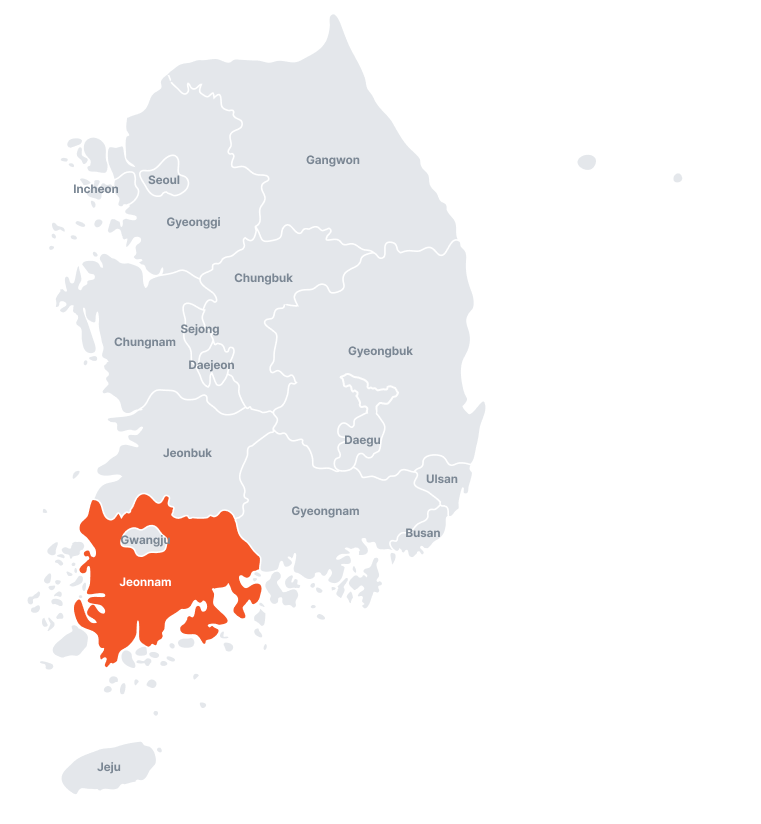
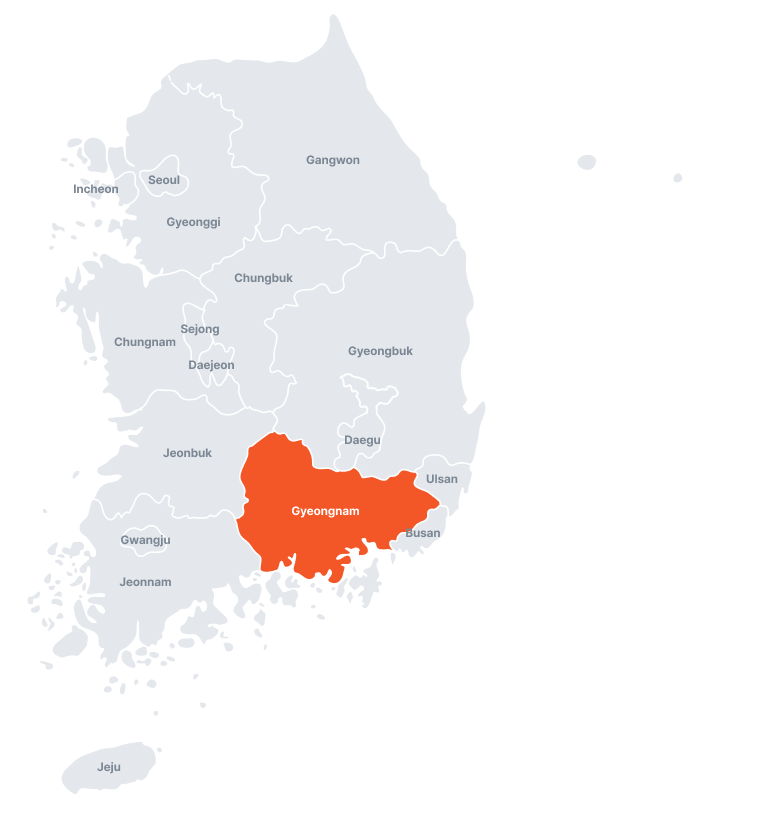
chuyen nhanh develop

Changed region(s): [[0.0907, 0.5158, 0.5742, 0.8192]]

diff --git a/src/i18n/_regions.ts b/src/i18n/_regions.ts
@@ -290,7 +290,7 @@ export const regionData = {
         date: "2025.12.05",
         image: "/images/regions/report_01.png",
         link: "#",
-        tags: [], // Nếu có tag thì điền vào đây
+        tags: [],
       },
       {
         title:
@@ -300,7 +300,7 @@ export const regionData = {
         link: "#",
         tags: [],
       },
-      // Bạn có thể thêm các item mẫu khác nếu muốn test grid 3 cột
+
       {
         title:
           "Gyeongnam National Aerospace Industrial Complex, Korea’s Biggest Aerospace Hub",
